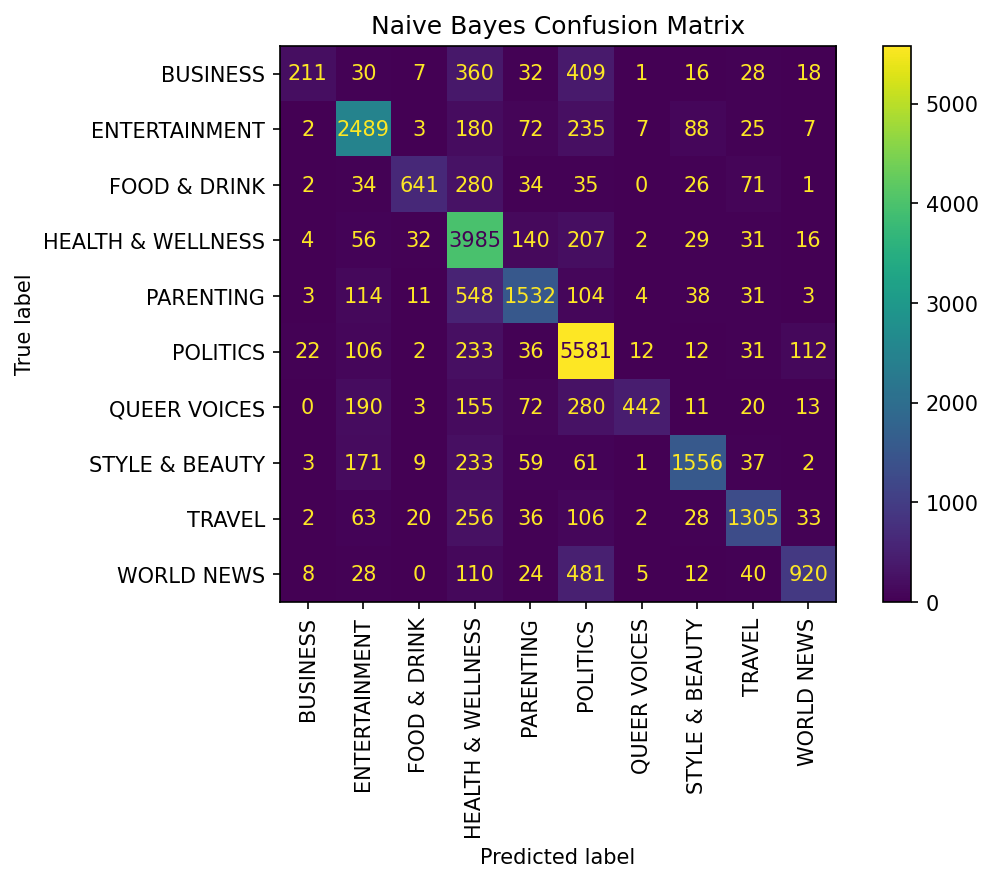
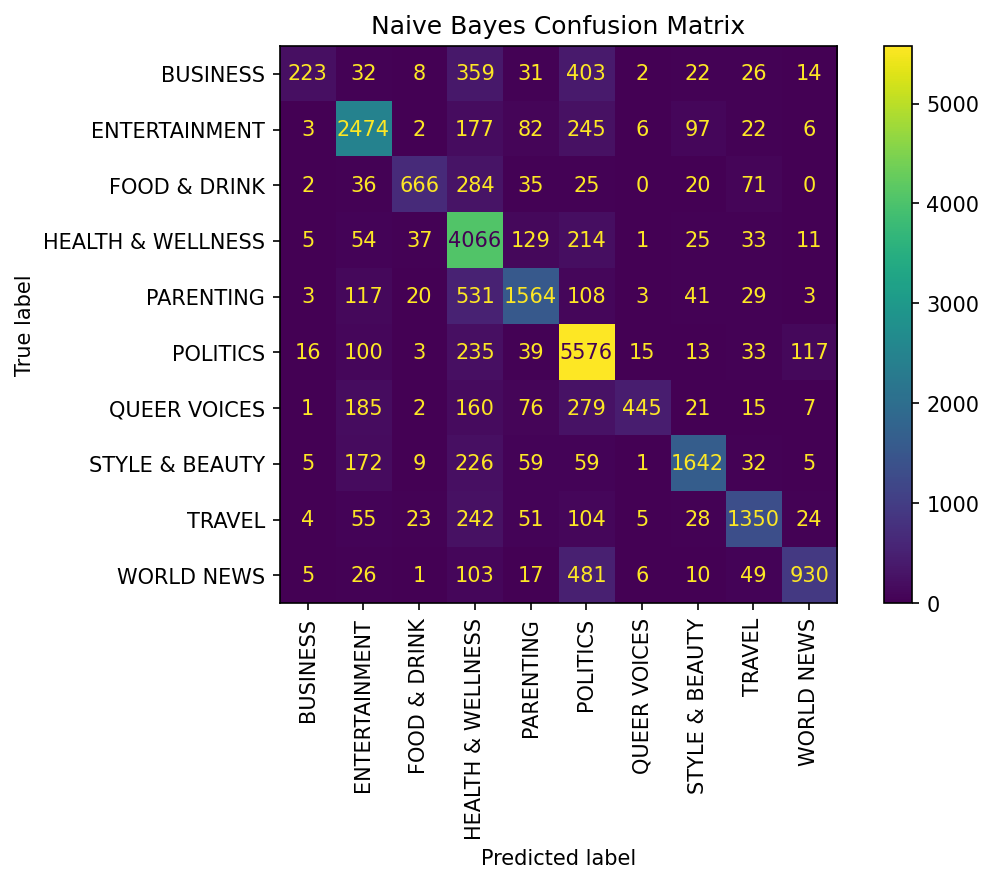
Update-- Modify streamlit app theme Set required paths in config

diff --git a/app.py b/app.py
@@ -165,37 +165,37 @@ button[data-testid="stBaseButton-secondary"]:hover, button[data-testid="stBaseBu
 
 # ============================================================ Metadata
 CATEGORY_INFO = {
-    "BUSINESS": {"icon": "💼", "color": "#60A5FA", "desc": "Markets, finance, economy, companies and trade"},
-    "ENTERTAINMENT": {"icon": "🎬", "color": "#A78BFA", "desc": "Cinema, television, music, celebrities and pop culture"},
-    "FOOD & DRINK": {"icon": "🍲", "color": "#FB923C", "desc": "Culinary arts, recipes, restaurants and gastronomy"},
-    "HEALTH & WELLNESS": {"icon": "🌿", "color": "#34D399", "desc": "Medicine, fitness, nutrition and mental health"},
-    "PARENTING": {"icon": "👶", "color": "#F472B6", "desc": "Childcare, family life and parenting advice"},
-    "POLITICS": {"icon": "🏛", "color": "#F87171", "desc": "Government, elections, legislation and policy"},
+    "BUSINESS": {"icon": "", "color": "#60A5FA", "desc": "Markets, finance, economy, companies and trade"},
+    "ENTERTAINMENT": {"icon": "", "color": "#A78BFA", "desc": "Cinema, television, music, celebrities and pop culture"},
+    "FOOD & DRINK": {"icon": "", "color": "#FB923C", "desc": "Culinary arts, recipes, restaurants and gastronomy"},
+    "HEALTH & WELLNESS": {"icon": "", "color": "#34D399", "desc": "Medicine, fitness, nutrition and mental health"},
+    "PARENTING": {"icon": "", "color": "#F472B6", "desc": "Childcare, family life and parenting advice"},
+    "POLITICS": {"icon": "", "color": "#F87171", "desc": "Government, elections, legislation and policy"},
     "QUEER VOICES": {"icon": "🌈", "color": "#2DD4BF", "desc": "LGBTQ+ community, identity, rights and culture"},
-    "STYLE & BEAUTY": {"icon": "👗", "color": "#FB7185", "desc": "Fashion, design, cosmetics and lifestyle"},
-    "TRAVEL": {"icon": "✈", "color": "#38BDF8", "desc": "Tourism, destinations, flights, hotels and guides"},
-    "WORLD NEWS": {"icon": "🌐", "color": "#94A3B8", "desc": "International affairs, conflicts and diplomacy"},
+    "STYLE & BEAUTY": {"icon": "", "color": "#FB7185", "desc": "Fashion, design, cosmetics and lifestyle"},
+    "TRAVEL": {"icon": "", "color": "#38BDF8", "desc": "Tourism, destinations, flights, hotels and guides"},
+    "WORLD NEWS": {"icon": "", "color": "#94A3B8", "desc": "International affairs, conflicts and diplomacy"},
 }
-FALLBACK_META = {"icon": "📰", "color": "#94A3B8", "desc": ""}
+FALLBACK_META = {"icon": "", "color": "#94A3B8", "desc": ""}
 
 SAMPLE_ARTICLES = {
-    "🏛 Politics": ("Senate passes bipartisan funding measure ahead of federal deadline",
+    "Politics": ("Senate passes bipartisan funding measure ahead of federal deadline",
         "Lawmakers in the Senate voted late Thursday to approve a comprehensive bipartisan spending package, sending the bill directly to the president's desk hours before government funding expired."),
-    "💼 Business": ("Wall Street rallies as quarterly corporate earnings exceed analyst expectations",
+    "Business": ("Wall Street rallies as quarterly corporate earnings exceed analyst expectations",
         "Major stock market indices surged in heavy trading following robust quarterly earnings reports from leading technology and financial corporations."),
-    "🎬 Entertainment": ("Director's new sci-fi epic dominates global box office with record debut",
+    "Entertainment": ("Director's new sci-fi epic dominates global box office with record debut",
         "The highly anticipated thriller secured the highest-grossing opening of the year. Critics praised the ensemble cast, visual effects, and original score."),
-    "🍲 Food & Drink": ("A chef's seasonal guide to roasting wild mushrooms with herbs and garlic",
+    "Food & Drink": ("A chef's seasonal guide to roasting wild mushrooms with herbs and garlic",
         "Chanterelles and king oyster mushrooms turn into a caramelized dinner centerpiece, sautéed in clarified butter with rosemary, thyme and lemon zest."),
-    "🌿 Health": ("Daily brisk walking significantly reduces cardiovascular risk, clinical study finds",
+    "Health": ("Daily brisk walking significantly reduces cardiovascular risk, clinical study finds",
         "Just 20 to 30 minutes of moderate aerobic walking per day lowers hypertension and heart disease risk, researchers found."),
-    "✈ Travel": ("Secret coastal villages in Southern Europe for a tranquil summer holiday",
+    "Travel": ("Secret coastal villages in Southern Europe for a tranquil summer holiday",
         "Far from crowded resorts, secluded Mediterranean harbors offer pebble beaches, family-run tavernas and boutique stays at modest prices."),
-    "👶 Parenting": ("Child psychologists share five bedtime routines that ease toddler sleep anxiety",
+    "Parenting": ("Child psychologists share five bedtime routines that ease toddler sleep anxiety",
         "Predictable nighttime rituals help young children settle: dim screens an hour before bed, keep a warm bath routine, and read together."),
-    "👗 Style": ("Spring runway collections champion vintage tailoring and circular fabrics",
+    "Style": ("Spring runway collections champion vintage tailoring and circular fabrics",
         "Designers unveiled relaxed linen suits, oversized trench coats and zero-waste recycled textiles in warm terracotta and sage tones."),
-    "🌐 World": ("International climate delegation signs landmark marine biodiversity treaty",
+    "World": ("International climate delegation signs landmark marine biodiversity treaty",
         "Envoys from over eighty nations ratified a treaty in Geneva establishing legally binding protections for international ocean corridors."),
 }
 

diff --git a/preprocessing.py b/preprocessing.py
@@ -24,15 +24,40 @@ def clean_text(text: str) -> str:
     text = re.sub(r"\s+", " ", text)
     return text.strip()
 
-def load_and_prepare_data(dataset_path: str):
-    print(f"{Fore.CYAN}{Style.BRIGHT}[INFO] Checking and loading dataset from '{dataset_path}'...")
-    if not Path(dataset_path).exitsts():
+def load_and_prepare_data(dataset_path):
+    path = Path(dataset_path)
+
+    # 1. If path doesn't exist as given, try resolving relative to base directories
+    if not path.exists():
+        base_dir = Path(__file__).resolve().parent
+        if (base_dir / path).exists():
+            path = base_dir / path
+        elif (base_dir.parent / path).exists():
+            path = base_dir.parent / path
+
+    # 2. If path is a directory, look for News.csv or the first .csv inside it
+    if path.is_dir():
+        news_file = path / "News.csv"
+        if news_file.exists():
+            path = news_file
+        else:
+            csv_candidates = list(path.glob("*.csv")) + list(path.glob("*.CSV"))
+            if csv_candidates:
+                path = csv_candidates[0]
+            else:
+                raise FileNotFoundError(
+                    f"{Fore.RED}No CSV dataset found inside directory '{dataset_path}'.\n"
+                    "Place News.csv inside the dataset folder."
+                )
+
+    if not path.exists() or not path.is_file():
         raise FileNotFoundError(
-            f"{Fore.RED}Dataset not found: {dataset_path}\n"
+            f"{Fore.RED}Dataset file not found at '{dataset_path}'.\n"
             "Place News.csv inside the dataset folder."
         )
 
-    df = pd.read_csv(dataset_path, low_memory=False)
+    print(f"{Fore.CYAN}{Style.BRIGHT}[INFO] Checking and loading dataset from '{path}'...")
+    df = pd.read_csv(path, low_memory=False)
     df.columns = df.columns.astype(str).str.strip()
 
     print(f"\n{Fore.BLUE}{Style.BRIGHT}========== DATASET INFORMATION ==========")

diff --git a/config.py b/config.py
@@ -1,7 +1,9 @@
 from pathlib import Path
 
-DATASET_PATH = "NewsArticleClassification/dataset"
-RESULTS_DIR = "results"
+BASE_DIR = Path(__file__).resolve().parent
+DATASET_DIR = BASE_DIR / "dataset"
+DATASET_PATH = DATASET_DIR / "News.csv"
+RESULTS_DIR = BASE_DIR / "results"
 RANDOM_STATE = 42
 TEST_SIZE_RATIO = 0.20
 TOP_N_CATEGORIES = 10
@@ -41,4 +43,5 @@ TFIDF_PARAMS = {
 }
 
 def ensure_directories():
-    Path(RESULTS_DIR).mkdir(parents=True, exist_ok=True)
+    DATASET_DIR.mkdir(parents=True, exist_ok=True)
+    RESULTS_DIR.mkdir(parents=True, exist_ok=True)
